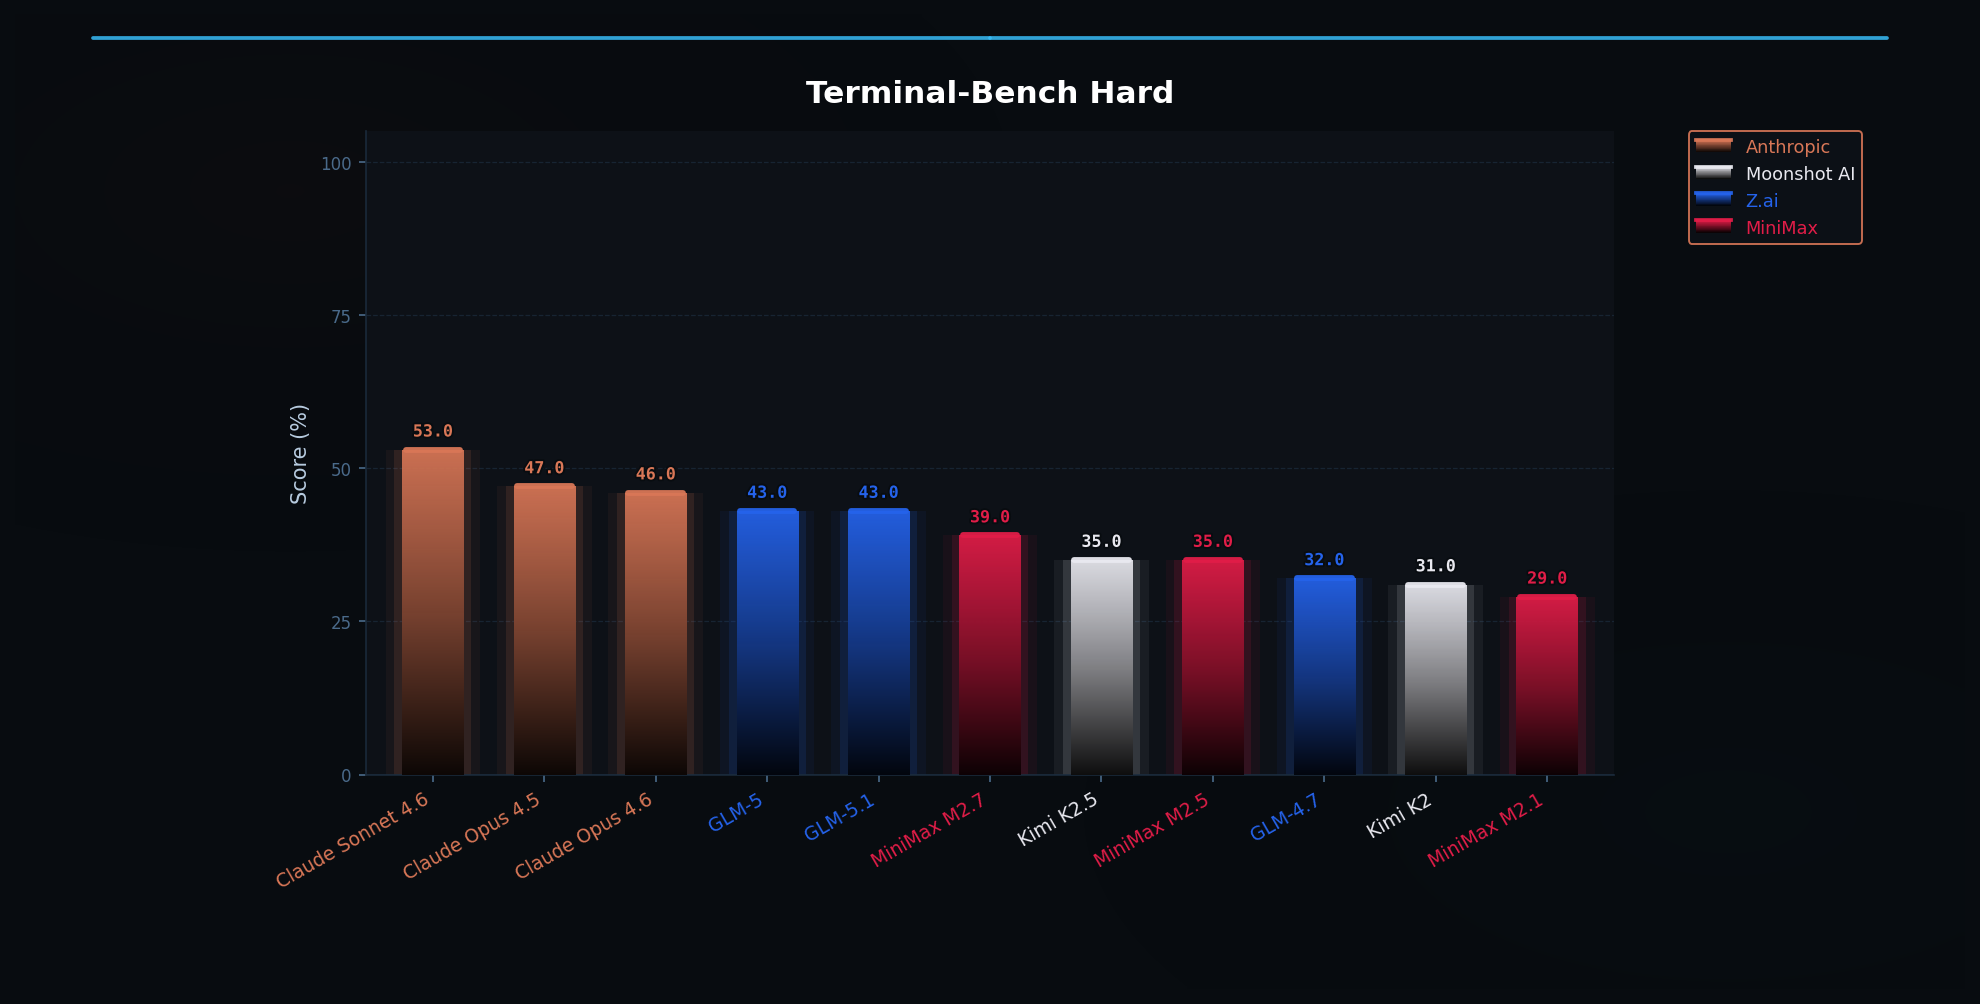
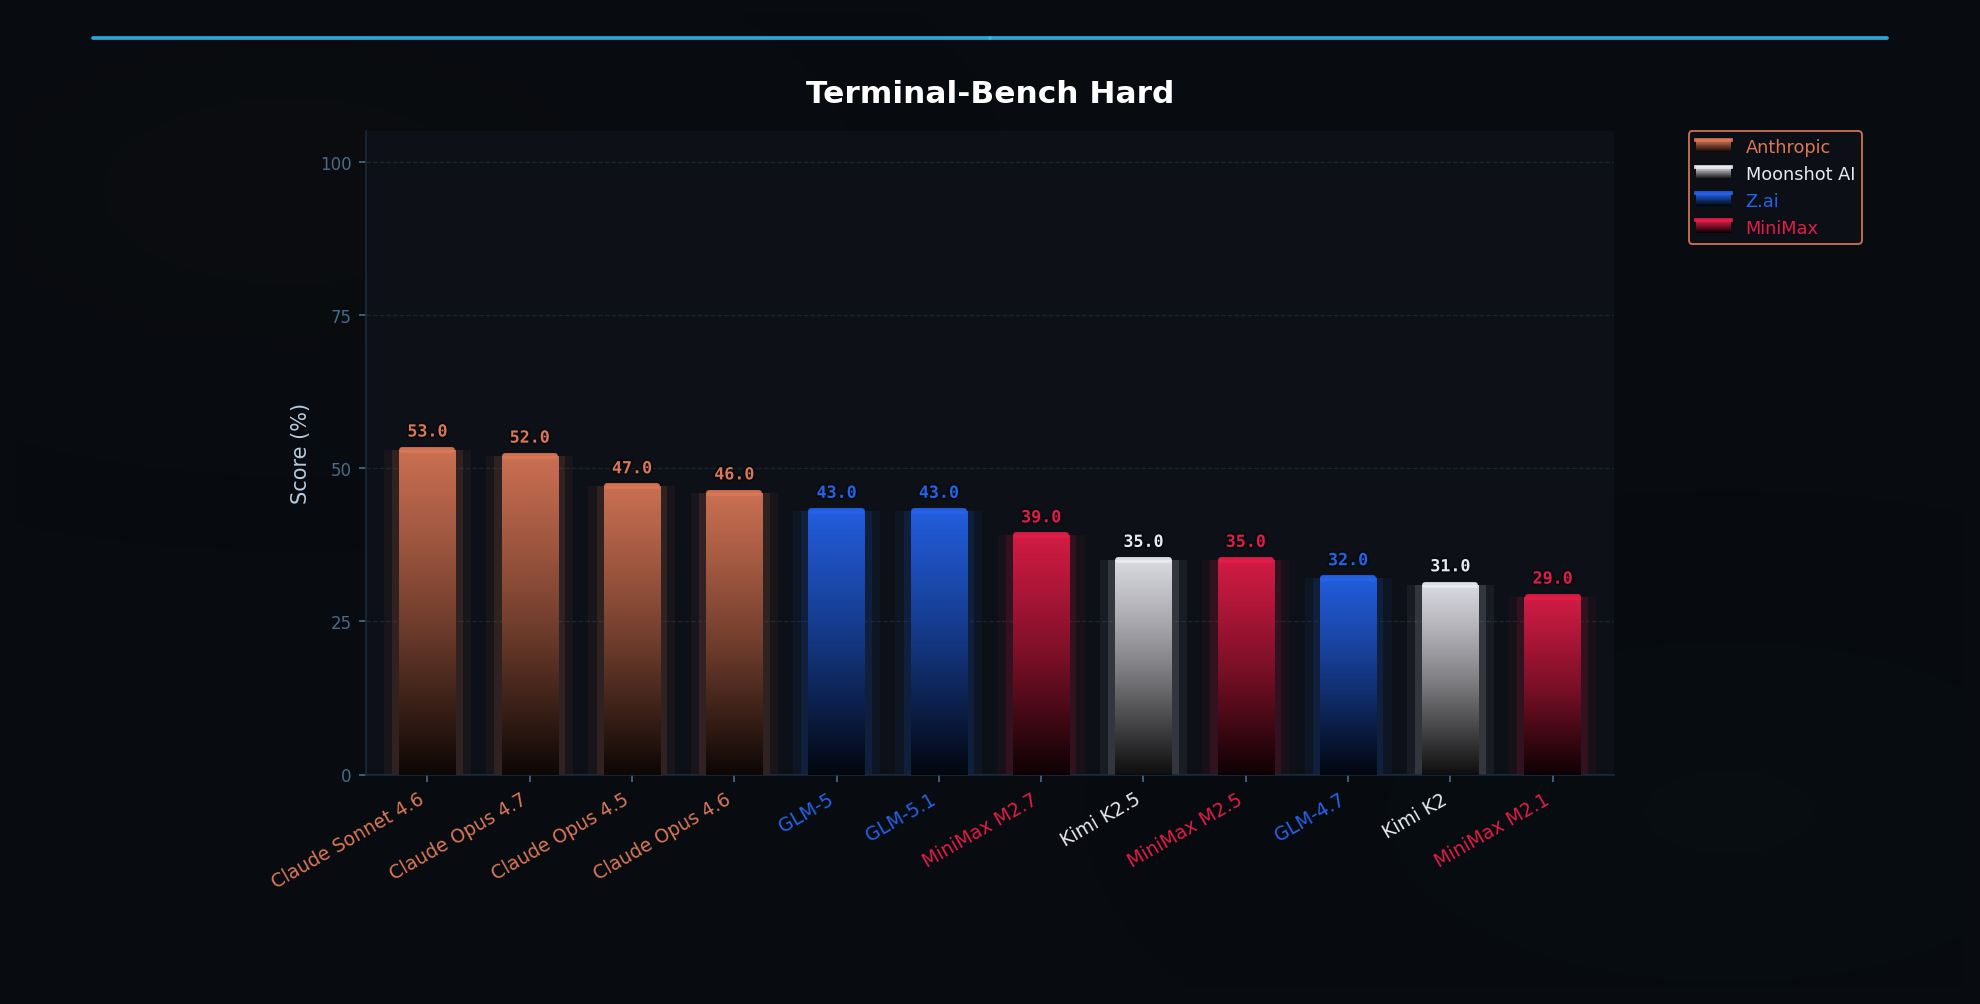
Fix in subsections

Changed region(s): [[0.154, 0.4323, 0.7702, 0.8645], [0.7702, 0.5558, 0.801, 0.5867], [0.1232, 0.8645, 0.154, 0.8954]]

diff --git a/chapters/chapter-02/01-prerequisites/01-subscriptions-and-costs.html b/chapters/chapter-02/01-prerequisites/01-subscriptions-and-costs.html
@@ -85,7 +85,7 @@
     <h3 class="card-h3">Anthropic</h3>
 
     <p class="body-text">
-      The first one is by the developer of Claude Code, Anthropic. Anthropic models Claude Opus 4.6 and Claude Sonnet 4.6
+      The first one is by the developer of Claude Code, Anthropic. Anthropic models Claude Opus 4.7/4.6 and Claude Sonnet 4.6
       are considered SOTA in coding. Note that Claude Code is not included in the Free Tier from Anthropic.
     </p>
 
@@ -524,26 +524,26 @@
       count involved in reading, reasoning over, and rewriting large codebases.
     </p>
 
-    <h4 class="card-h4">Z.ai/GLM: Full-Turn “Prompts”</h4>
+    <h4 class="card-h4">Z.ai/GLM: “Prompt” units</h4>
 
     <p class="body-text">
-      Z.ai (powered by GLM models) uses a very forgiving abstraction: the Prompt. Here, one prompt equals one
-      complete user task submitted through the Claude Code interface, from the moment you hit enter until the agent
-      finishes its final response.
+      Z.ai (powered by GLM models) uses a simplified usage unit called the “Prompt” for its GLM Coding Plan. One
+      prompt refers to one query — a single user message you submit through supported coding tools such as Claude Code.
     </p>
 
     <p class="body-text">
-      What makes this especially powerful is that all the internal model invocations that happen during that task count
-      as a single prompt. The entire agentic loop — including tool calls, reasoning steps, code editing, testing,
-      re-reading files, and follow-up planning — is bundled together. No matter how many tokens are burned or how
-      many back-and-forth cycles the agent performs, it still registers as only one prompt against your quota.
+      Each prompt is estimated to invoke the model 15–20 times internally. The actual number of prompt units deducted
+      from your quota depends on the total resources consumed by that query. Simple tasks usually cost close to 1 prompt
+      unit, while complex agentic workflows — including multiple tool calls, reasoning steps, code editing, testing loops,
+      file re-reading, and follow-up planning — can consume significantly more prompt units from the same single user query.
     </p>
 
     <p class="body-text">
-      Z.ai’s own documentation confirms that supported coding tools (Claude Code, Kilo Code, and similar integrations)
-      come with an allowance of tens of billions of tokens per month — effectively around 1% of standard API pricing.
-      In the 5-hour window this typically translates to roughly 80 prompts, giving you enormous headroom for complex,
-      long-running tasks.
+      Z.ai’s documentation states that the plan provides an equivalent of tens of billions of tokens per month (15–30×
+      the value of the monthly subscription fee), all at roughly ~1% of standard API pricing. In the 5-hour rolling window
+      this typically translates to roughly 80 prompts on the Lite plan (higher on Pro and Max), though the exact figures
+      are estimates. Actual available usage may vary depending on project complexity, repository size, whether
+      auto-accept is enabled, and model choice (GLM-5.1 and GLM-5-Turbo are deducted at up to 3× during peak hours).
     </p>
 
     <h4 class="card-h4">MiniMax and Kimi: Requests / API Calls</h4>
@@ -659,44 +659,44 @@
         <ul class="platform-task-list">
           <li class="platform-task platform-task--light">
             <span class="platform-task-name">Prompt + System files<br></span>
-            <span class="platform-task-tag">internal</span>
+            <span class="platform-task-tag">prompt 1</span>
           </li>
           <li class="platform-task platform-task--light">
             <span class="platform-task-name">Read db/queries.py<br></span>
-            <span class="platform-task-tag">internal</span>
+            <span class="platform-task-tag">prompt 1</span>
           </li>
           <li class="platform-task platform-task--light">
             <span class="platform-task-name">Read 4 call-site files<br></span>
-            <span class="platform-task-tag">internal</span>
+            <span class="platform-task-tag">prompt 1</span>
           </li>
           <li class="platform-task platform-task--light">
             <span class="platform-task-name">Plan ORM schema</span>
-            <span class="platform-task-tag">internal</span>
+            <span class="platform-task-tag">prompt 1</span>
           </li>
           <li class="platform-task platform-task--light">
             <span class="platform-task-name">Write models.py</span>
-            <span class="platform-task-tag">internal</span>
+            <span class="platform-task-tag">prompt 1</span>
           </li>
           <li class="platform-task platform-task--light">
             <span class="platform-task-name">Patch 4 call-site files</span>
-            <span class="platform-task-tag">internal</span>
+            <span class="platform-task-tag">prompt 1</span>
           </li>
-          <li class="platform-task platform-task--light">
+          <li class="platform-task platform-task--med">
             <span class="platform-task-name">Run test suite (bash)</span>
-            <span class="platform-task-tag">internal</span>
+            <span class="platform-task-tag">prompt 2</span>
           </li>
-          <li class="platform-task platform-task--light">
+          <li class="platform-task platform-task--med">
             <span class="platform-task-name">Fix 2 failing tests</span>
-            <span class="platform-task-tag">internal</span>
+            <span class="platform-task-tag">prompt 2</span>
           </li>
-          <li class="platform-task platform-task--light">
+          <li class="platform-task platform-task--med">
             <span class="platform-task-name">Confirm done to you</span>
-            <span class="platform-task-tag">internal</span>
+            <span class="platform-task-tag">prompt 2</span>
           </li>
         </ul>
         <div class="platform-col-footer">
           <div class="platform-footer-label">Total</div>
-          <div class="platform-footer-value">exactly 1 prompt<br>regardless of steps</div>
+          <div class="platform-footer-value">2 prompts<br>consumed</div>
         </div>
       </div>
 
@@ -768,7 +768,7 @@
           <div class="platform-practice-stat platform-practice-stat--orange">~5–15 heavy tasks / 5-hr window</div>
         </div>
         <div class="platform-practice-bar-track">
-          <div class="platform-practice-bar platform-practice-bar--orange" style="width: 15%"></div>
+          <div class="platform-practice-bar platform-practice-bar--orange" style="width: 10%"></div>
         </div>
         <div class="platform-practice-bar-note">one task = ~7–25% of window</div>
       </div>
@@ -779,12 +779,12 @@
             <span class="platform-practice-dot platform-practice-dot--blue"></span>
             Z.ai Lite (18$) — flat prompt count
           </div>
-          <div class="platform-practice-stat platform-practice-stat--blue">~80 tasks / 5-hr window — complexity doesn't matter</div>
+          <div class="platform-practice-stat platform-practice-stat--blue">~20-40 tasks / 5-hr window — complexity doesn't matter</div>
         </div>
         <div class="platform-practice-bar-track">
-          <div class="platform-practice-bar platform-practice-bar--blue" style="width: 1.25%"></div>
+          <div class="platform-practice-bar platform-practice-bar--blue" style="width: 2.5%"></div>
         </div>
-        <div class="platform-practice-bar-note">one task = 1.25% of window, independent of complexity</div>
+        <div class="platform-practice-bar-note">one task = ~2.5% of window, independent of complexity</div>
       </div>
 
       <div class="platform-practice-row">
@@ -805,8 +805,8 @@
 
     <div class="callout callout-note">
       <div class="callout-label">ℹ NOTE</div>
-      Some nuances to this calculation come from task complexity. For example, given a simple task, the final consumption at Anthropic and Z.ai
-      will be much closer to each other.
+      Some nuances to this calculation come from task complexity. For different tasks, the final consumption at Anthropic and Z.ai or MiniMax
+      might be much closer to each other.
     </div>
 
   </div>
@@ -830,8 +830,7 @@
     <p class="body-text">
       <strong>Z.ai Lite/Pro</strong> comes in a very close second and, especially when paid quarterly or yearly, often feels like
       3–5× the effective usage of Claude Pro/Max at a significantly lower cost. Many developers keep Z.ai as their “Claude Code
-      overflow” plan, switching seamlessly the moment Anthropic’s limits are reached. The prompt-based metering makes it feel
-      exceptionally generous for long, complex coding sessions.
+      overflow” plan, switching seamlessly the moment Anthropic’s limits are reached.
     </p>
 
     <p class="body-text">
@@ -857,11 +856,11 @@
           If you want <strong>maximum volume</strong> and don’t mind managing the agentic-loop granularity, go with <strong>MiniMax Plus.</strong>
         </li>
         <li>
-          If you want <strong>maximum simplicity and generous prompt-based headroom</strong> at a very attractive price, <strong>Z.ai Pro</strong> is the
-          sweet spot for most heavy users.
+          If you want <strong>strong value and generous base limits at a very attractive price</strong>, and don’t mind occasional variability in
+          usable quotas, <strong>Z.ai Pro</strong> is often an excellent choice for most heavy users.
         </li>
         <li>
-          If quality and frictionless experience are non-negotiable and budget is secondary, <strong>Anthropic Max</strong> (with Opus)
+          If <strong>quality and frictionless experience</strong> are non-negotiable and budget is secondary, <strong>Anthropic Max</strong> (with Opus)
           remains the premium choice.
         </li>
         <li>
@@ -872,10 +871,9 @@
 
     <div class="callout callout-note">
       <div class="callout-label">ℹ NOTE</div>
-      By understanding exactly what each provider’s 5-hour limit actually measures — tokens, full prompts, or individual
+      By understanding exactly what each provider’s 5-hour limit actually measures — tokens, prompts, or individual
       API requests — you can stop guessing and start choosing the plan that aligns with how you actually code.
     </div>
-
   </div>
 
 </div>

diff --git a/chapters/chapter-02/01-prerequisites/02-the-right-subscription.html b/chapters/chapter-02/01-prerequisites/02-the-right-subscription.html
@@ -63,7 +63,7 @@
           <tr>
             <td class="cell-model">
               <span class="model-name">Anthropic</span>
-              <span class="model-sub">Claude Opus 4.6 / Sonnet 4.6</span>
+              <span class="model-sub">Claude Opus 4.7 / Opus 4.6 / Sonnet 4.6</span>
             </td>
             <td>Conservative, production-grade, heavily commented, "staff-engineer" clean</td>
             <td>Best at matching existing repo style, strict adherence to PEP8 / Airbnb / Google etc., almost never drifts, excellent architecture &amp; safety</td>
@@ -202,7 +202,7 @@
 
     <div class="callout callout-note">
       <div class="callout-label">ℹ NOTE</div>
-      Claude Opus 4.6 and Sonnet 4.6 work natively with Claude Code — just add your Anthropic API key and it works
+      Claude Opus 4.7, Opus 4.6 and Sonnet 4.6 work natively with Claude Code — just add your Anthropic API key and it works
       immediately with full feature support and zero extra configuration.
       <br><br>
       All other models (GLM-5.1/5/4.7, MiniMax-M2.7/2.5, and Kimi K2.5) require an additional setup step. You must
@@ -777,7 +777,7 @@
       <div class="choice-box-intro">Key Observations:</div>
       <ul class="choice-list">
         <li><strong>Best Value quadrant</strong> (top-left): MiniMax M2.7, GLM-5.1, GLM-5 — excellent quality at extremely low cost.</li>
-        <li><strong>Premium quadrant</strong> (top-right): Claude Opus 4.6 (highest overall quality), Claude Sonnet 4.6, Claude Opus 4.5.</li>
+        <li><strong>Premium quadrant</strong> (top-right): Claude Opus 4.7 (highest overall quality), Claude Sonnet 4.6, Claude Opus 4.7.</li>
         <li>Kimi K2.5 sits in a strong middle-ground position.</li>
         <li>MiniMax M2.7 is the standout “no-compromise” value pick right now.</li>
       </ul>
@@ -816,7 +816,7 @@
     <div class="callout callout-bottom-line">
       <div class="callout-label">◆ BOTTOM LINE</div>
       MiniMax M2.7 and the GLM-5 series currently offer the best price/performance ratio for most Claude Code users.
-      Claude Opus 4.6 remains the quality king — but you pay a significant premium for that last 5–10 % of capability.
+      Claude Opus 4.6/4.7 remain the quality kings — but you pay a significant premium for that last 5–10 % of capability.
     </div>
 
   </div>
@@ -856,7 +856,7 @@
       </li>
       <li>
         <p>
-          <span class="feature-key">Best prompt-based headroom & simplicity (heavy refactoring / complex sessions):</span>
+          <span class="feature-key">Generous quota & closest to Claude (heavy refactoring / complex sessions):</span>
         </p>
         <p>
           <strong>
@@ -864,7 +864,7 @@
           </strong>
         </p>
         <p>
-          One user prompt = one billable unit no matter how many internal tool calls or context reads happen.
+          One user prompt = one billable unit that can consume around 15-20 internal model calls.
           Feels 3–5× more generous than Claude Pro/Max at a fraction of the price. Excellent “overflow” plan when
           Anthropic hits its token wall.
         </p>
@@ -875,7 +875,7 @@
         </p>
         <p>
           <strong>
-            → Anthropic Max 5× or Max 20× (Claude Opus 4.6 / Sonnet 4.6)
+            → Anthropic Max 5× or Max 20× (Claude Opus 4.7 / Opus 4.6 / Sonnet 4.6)
           </strong>
         </p>
         <p>
@@ -908,7 +908,7 @@
           Need to crank out 200+ complex tasks per day without thinking? → MiniMax Plus
         </li>
         <li>
-          Want the simplest possible metering where one big refactor = one prompt? → Z.ai Pro/Max
+          Want a good overflow plan for your Anthropic subscription with generous quotas? → Z.ai Pro/Max
         </li>
         <li>
           Budget is secondary and you want the smoothest, most reliable experience? → Anthropic Max (Opus)

diff --git a/data/benchmarks_data.html b/data/benchmarks_data.html
@@ -15,6 +15,18 @@
   </thead>
   <tbody class="text-zinc-300">
     <tr class="border-b border-white/10 hover:bg-white/5">
+      <td class="py-3 px-4 font-semibold"><strong>Claude Opus 4.7</strong></td>
+      <td class="py-3 px-4 text-center">55.0</td>
+      <td class="py-3 px-4 text-center">52.0</td>
+      <td class="py-3 px-4 text-center">63.0</td>
+      <td class="py-3 px-4 text-center">70.0</td>
+      <td class="py-3 px-4 text-center">89.0</td>
+      <td class="py-3 px-4 text-center">57</td>
+      <td class="py-3 px-4 text-center">5</td>
+      <td class="py-3 px-4 text-center">25</td>
+      <td class="py-3 px-4 text-center">44</td>
+    </tr>
+    <tr class="border-b border-white/10 hover:bg-white/5">
       <td class="py-3 px-4 font-semibold"><strong>Claude Opus 4.6</strong></td>
       <td class="py-3 px-4 text-center">52.0</td>
       <td class="py-3 px-4 text-center">46.0</td>
